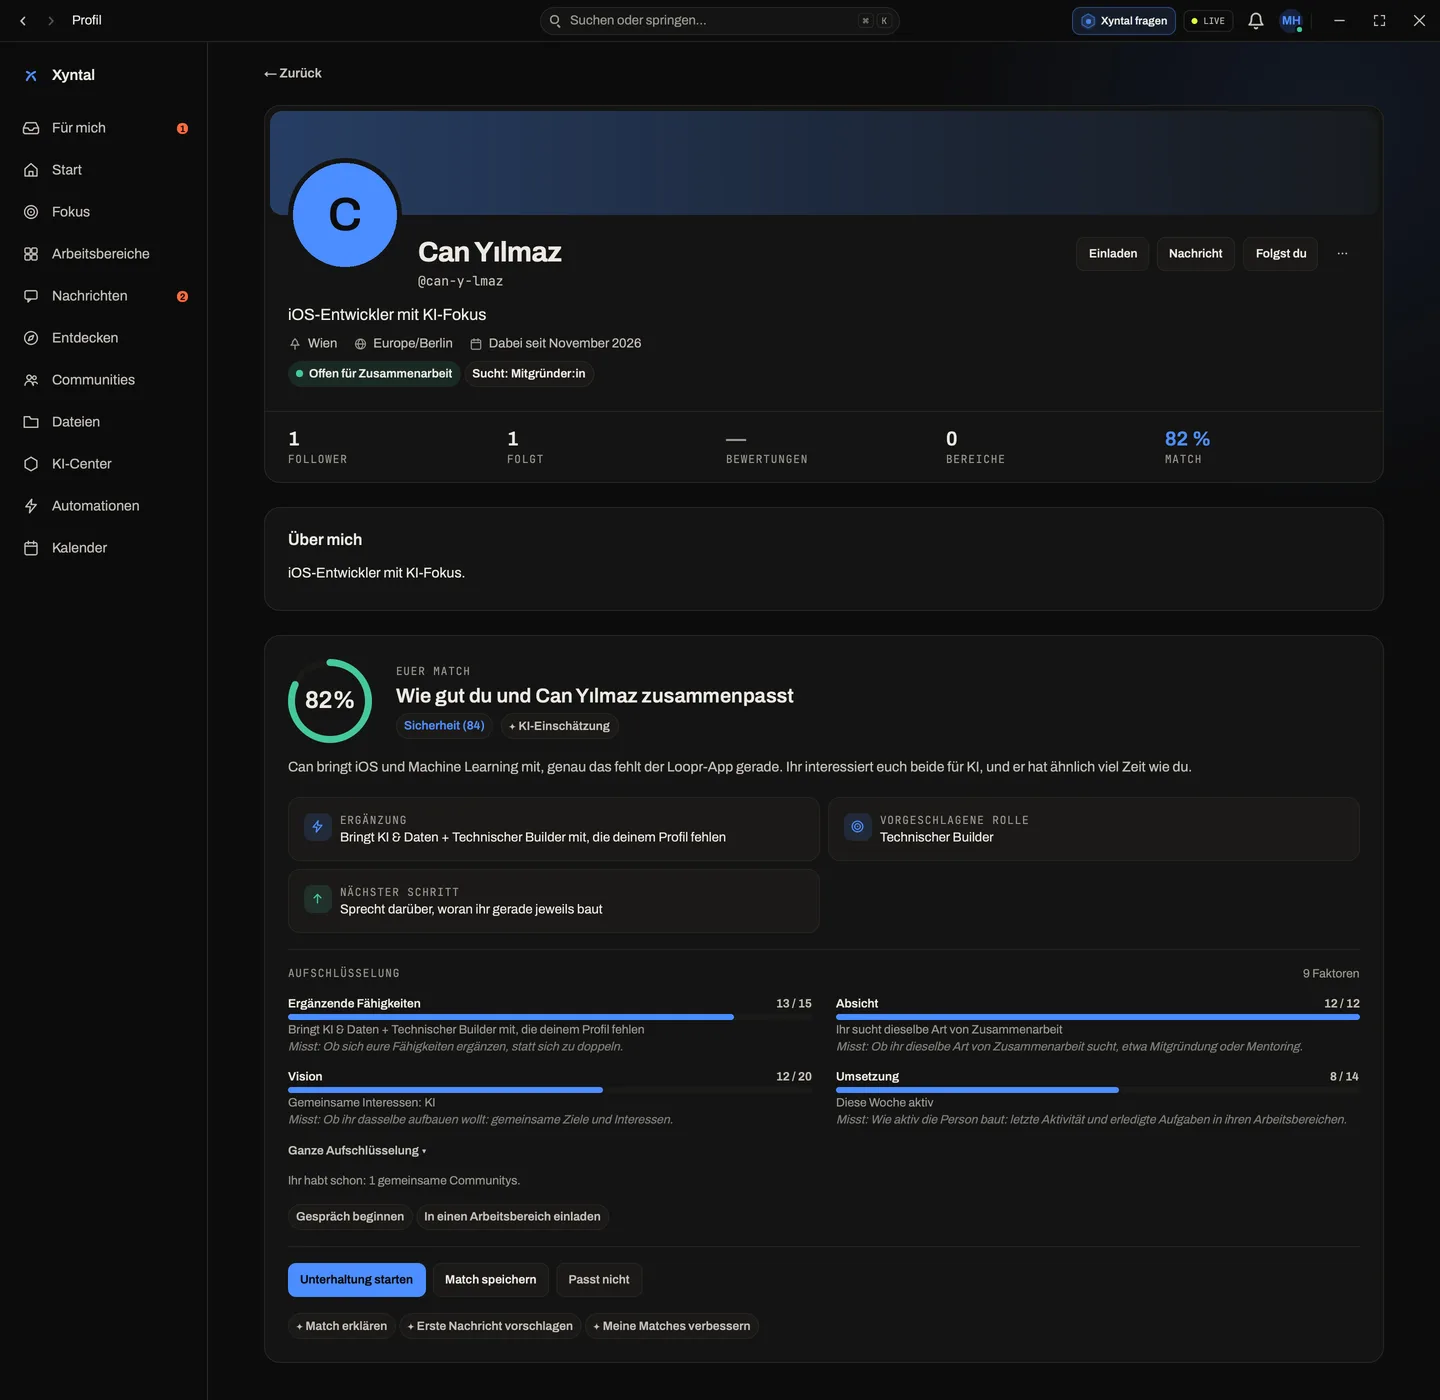
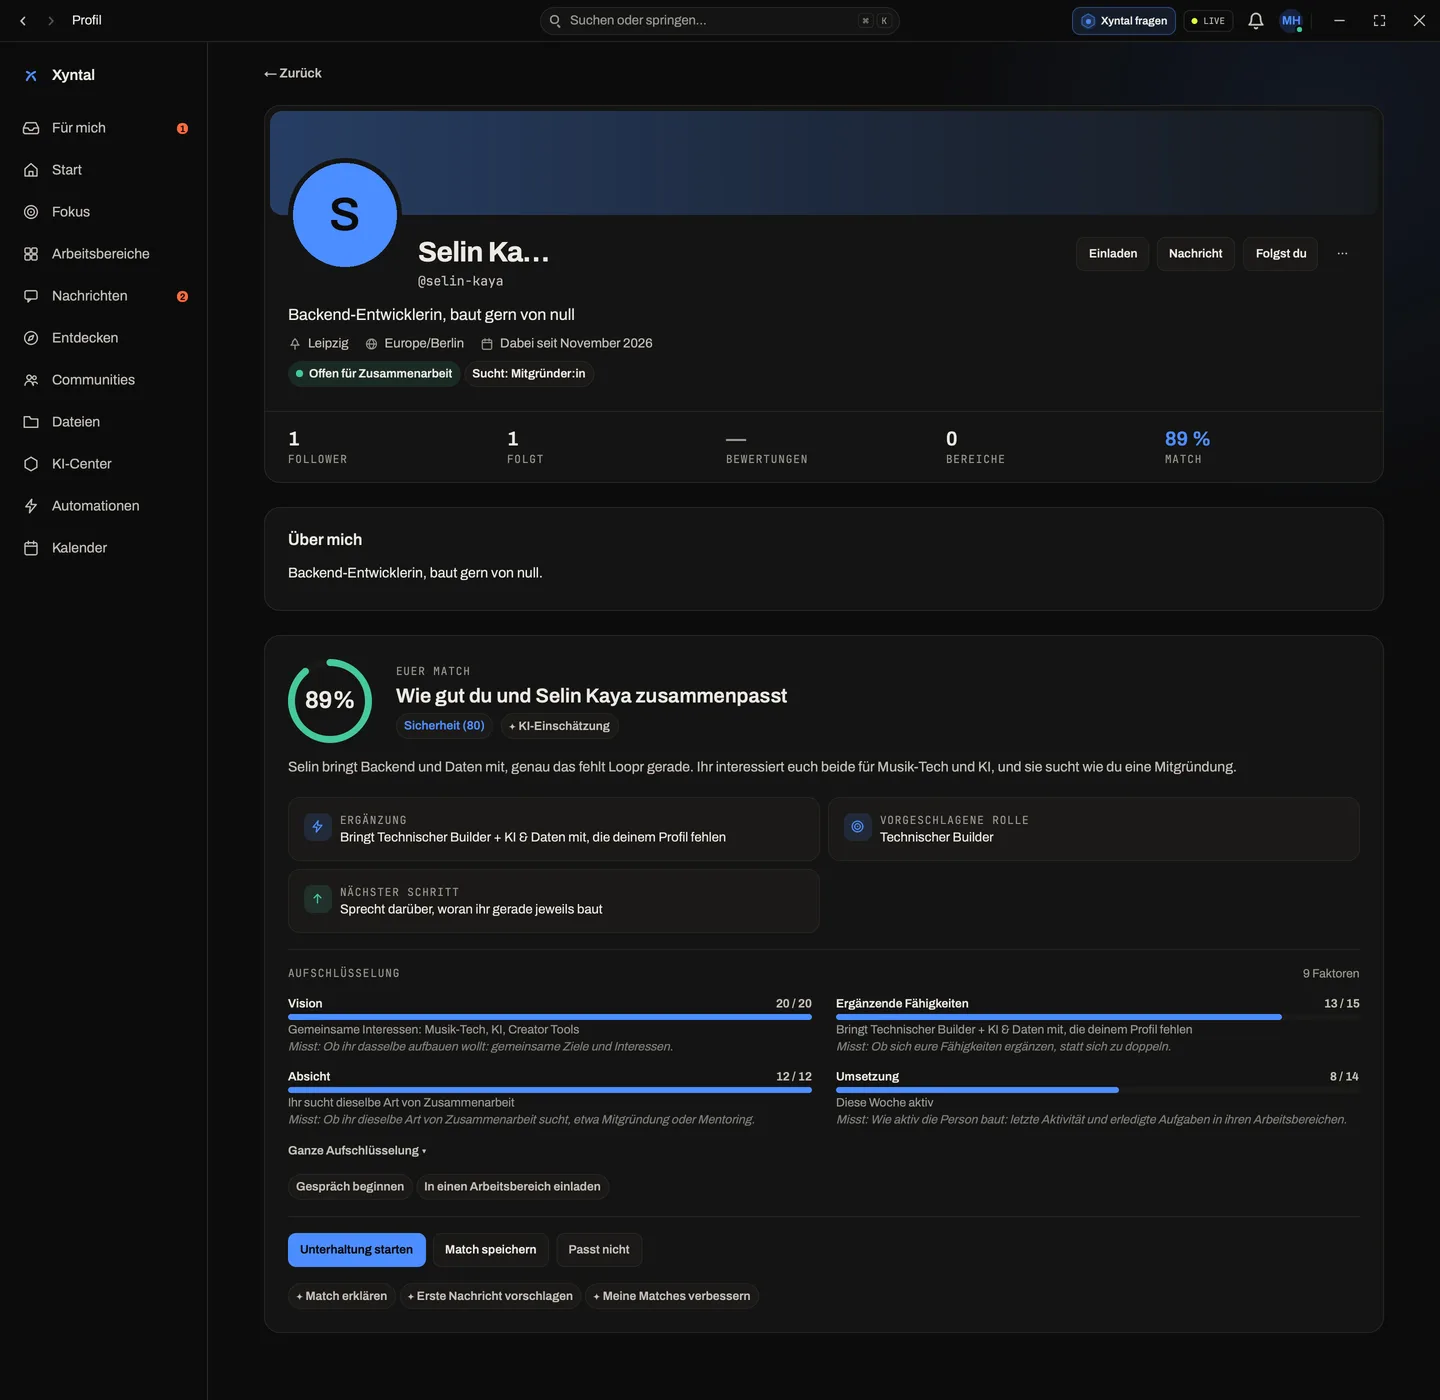
Startseite: andere Beispielpersonen in den App-Screens
Entdecken, Profil und Nachrichten zeigen jetzt Selin Kaya (89 %) und
Tom Berger (71 %) statt Can und Jonas. Neu aufgenommen aus App 0.2.19
mit erfundenen Beispieldaten.

diff --git a/public/index.html b/public/index.html
@@ -158,12 +158,12 @@
         <div class="win" data-win>
           <div class="win__cam" data-cam>
             <picture>
-              <img class="win__img is-on" data-shot src="assets/img/discover-2880.webp" srcset="assets/img/discover-1440.webp 1440w, assets/img/discover-2880.webp 2880w" sizes="(min-width: 860px) 150vw, 300vw" width="2880" height="1800" loading="lazy" decoding="async"
-                   alt="Xyntal-App, Bereich Entdecken: zwei Profilkarten mit „Für dich empfohlen“, 82 % und 76 % Passung, Zeit pro Woche und wonach die Person sucht.">
+              <img class="win__img is-on" data-shot src="assets/img/discover-2880.webp?v=2" srcset="assets/img/discover-1440.webp?v=2 1440w, assets/img/discover-2880.webp?v=2 2880w" sizes="(min-width: 860px) 150vw, 300vw" width="2880" height="1800" loading="lazy" decoding="async"
+                   alt="Xyntal-App, Bereich Entdecken: zwei Profilkarten mit „Für dich empfohlen“, 89 % und 71 % Passung, Zeit pro Woche und wonach die Person sucht.">
             </picture>
             <picture>
-              <img class="win__img" data-shot src="assets/img/profil-2880.webp" srcset="assets/img/profil-1440.webp 1440w, assets/img/profil-2880.webp 2880w" sizes="(min-width: 860px) 110vw, 300vw" width="2880" height="2800" loading="lazy" decoding="async"
-                   alt="Xyntal-App, Profil mit „Wie gut du und Can Yılmaz zusammenpasst“: 82 % Match, ein Satz Begründung, vorgeschlagene Rolle, nächster Schritt und die Aufschlüsselung nach Bereichen wie Ergänzende Fähigkeiten, Absicht, Vision und Umsetzung.">
+              <img class="win__img" data-shot src="assets/img/profil-2880.webp?v=2" srcset="assets/img/profil-1440.webp?v=2 1440w, assets/img/profil-2880.webp?v=2 2880w" sizes="(min-width: 860px) 110vw, 300vw" width="2880" height="2800" loading="lazy" decoding="async"
+                   alt="Xyntal-App, Profil mit „Wie gut du und Selin Kaya zusammenpasst“: 89 % Match, ein Satz Begründung, vorgeschlagene Rolle, nächster Schritt und die Aufschlüsselung nach Bereichen wie Vision, Ergänzende Fähigkeiten, Absicht und Umsetzung.">
             </picture>
           </div>
           <div class="win__focus" data-focus aria-hidden="true"><span class="mono" data-focus-label></span></div>
@@ -312,7 +312,7 @@
       <figure class="shot shot--b" data-par="0.10">
         <div class="win" data-glare>
           <picture>
-            <img src="assets/img/chat-1920.webp" srcset="assets/img/chat-960.webp 960w, assets/img/chat-1920.webp 1920w" sizes="(min-width: 860px) 44vw, 92vw" width="1920" height="1200" loading="lazy" decoding="async"
+            <img src="assets/img/chat-1920.webp?v=2" srcset="assets/img/chat-960.webp?v=2 960w, assets/img/chat-1920.webp?v=2 1920w" sizes="(min-width: 860px) 44vw, 92vw" width="1920" height="1200" loading="lazy" decoding="async"
                  alt="Xyntal-App, Nachrichten: Liste der Gespräche links, ein Gruppenchat mit vier Mitgliedern in der Mitte, die Mitgliederliste rechts.">
           </picture>
           <i class="win__glare" aria-hidden="true"></i>

diff --git a/public/js/neu.js b/public/js/neu.js
@@ -156,13 +156,13 @@
     var CAMS = {
       wide: [
         { shot: 0, cx: .50, cy: .50, s: 1.00 },
-        { shot: 0, cx: .29, cy: .69, s: 2.25, f: [.175, .650, .185, .042], label: '82 % Passung' },
+        { shot: 0, cx: .29, cy: .69, s: 2.25, f: [.175, .650, .185, .042], label: '89 % Passung' },
         { shot: 1, cx: .575, cy: .56, s: 1.22, f: [.196, .460, .754, .215], label: 'Der Grund' },
         { shot: 1, cx: .575, cy: .765, s: 1.22, f: [.196, .686, .754, .126], label: 'Jeder Bereich einzeln' }
       ],
       small: [
         { shot: 0, cx: .33, cy: .33, s: 2.5 },
-        { shot: 0, cx: .27, cy: .70, s: 3.3, f: [.175, .650, .185, .042], label: '82 % Passung' },
+        { shot: 0, cx: .27, cy: .70, s: 3.3, f: [.175, .650, .185, .042], label: '89 % Passung' },
         { shot: 1, cx: .41, cy: .53, s: 2.5, f: [.196, .460, .754, .215], label: 'Der Grund' },
         { shot: 1, cx: .385, cy: .755, s: 2.5, f: [.196, .686, .754, .126], label: 'Jeder Bereich einzeln' }
       ]
